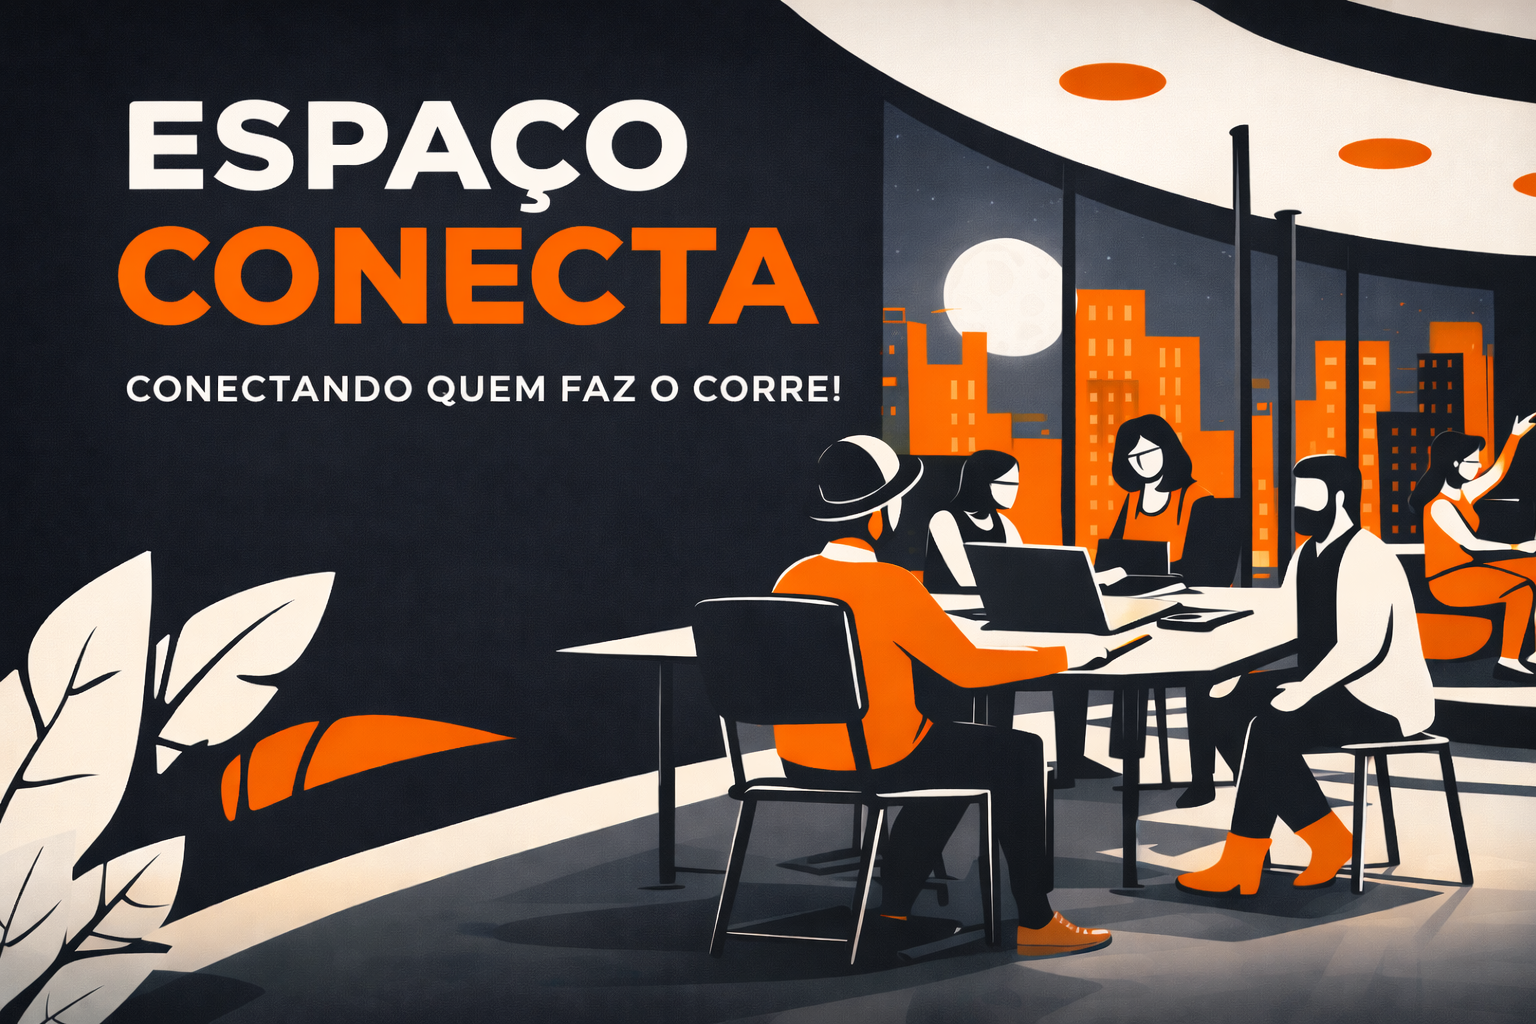
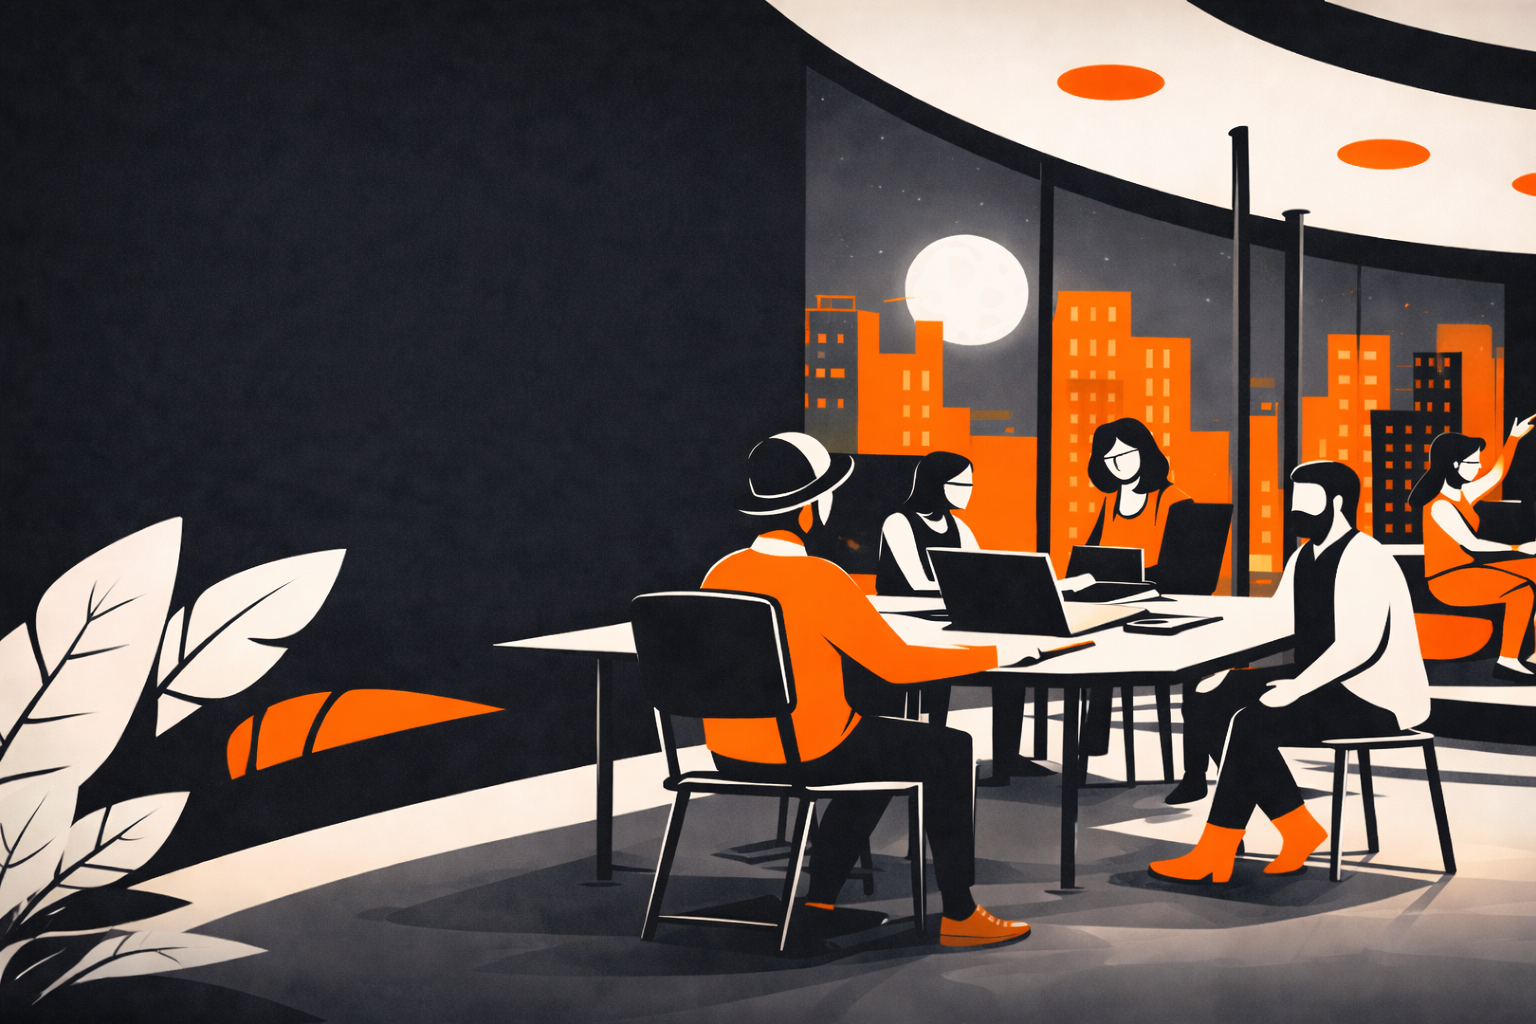
fix: mudei o tamaho da imagem principal, adicionei um titulo e um texpo de impacto e ajustei os tamanhos e flexbilidade da navbar e da section sobre nos

diff --git a/frontend/src/style/index.css b/frontend/src/style/index.css
@@ -9,13 +9,13 @@ header{
 .navbar {
     background-color: #000;
     color: white;
-    padding: 15px 40px;
+    padding: 15px 80px;
     display: flex;
     align-items: center;
+    justify-content: space-between;
     z-index: 1000;
     position: fixed;
     margin: 0 auto;
-    padding: 0 70px;
     width: 100%;
     height: 60px;
     box-shadow: 0 2px 4px rgba(0, 0, 0, 0.3);
@@ -23,23 +23,25 @@ header{
 
 
 /* esquerda */
-.nav-esquerda {
-    flex: 1; /* Ocupa o espaço disponível */
+.nav-links {
+    flex: 1;
+    display: flex;
+    justify-content: flex-start;
 }
 
 /* centro */
-.nav-logo a {
-    flex: 1;
-    display: flex;
-    justify-content: center;
-    margin-bottom: 5px;
+.nav-logo{
+   flex: 1;
+   display: flex;
+   justify-content: center;
+   align-items: center;
 }
 
 /* direita */
 .nav-direita {
-    flex: 1; /* Ocupa o espaço restante */
+    flex: 1;
     display: flex;
-    justify-content: end;
+    justify-content: flex-end;
 }
 
 .nav-direita img{
@@ -49,7 +51,7 @@ header{
 /* lista */
 .nav-list {
     display: flex;
-    gap: 100px;
+    gap: 70px;
     list-style: none;
     font-weight: 600;
 }
@@ -105,41 +107,72 @@ header{
     color: #E0712B;
     transition: 0.5s;
 }
+.hero{ 
+  height: 60vh; /* ocupa a tela toda */
+  background-image: url("../../assets/img/IMGhero.png");
+  background-size: cover;       /* cobre toda a área */
+  background-position: center;  /* centraliza */
+  background-repeat: no-repeat;
 
-.hero{
-   min-height: 100vh;
-   width: 100%;
-   display: flex;
-   align-items: center;
-   justify-content: center;
-   padding-top: 0px;
-   background-image: url(../../assets/img/IMGhero.png);
-   background-repeat: none;
-   background-size: cover;
+  display: flex;
+  align-items: center;   /* centraliza vertical */
+  justify-content: center; /* texto ao centro */
+  padding: 0 80px;
+  position: relative;
 }
+
+.hero-content {
+  max-width: 500px;
+  display: flex;
+  flex-direction: column;
+  justify-content: center;
+  align-items: center;
+  text-align: center;
+
+  position: relative;
+  z-index: 1;
+}
+
+#laranja {
+   display: flex;
+  font-size: 95px;
+  font-weight: 700;
+  color: #E0712B;
+}
+
+.hero-content h1{
+   display: flex;
+   gap: 30px;
+   font-size: 90px;
+   font-weight: 700;
+   color: white;
+}
+
+.hero-content p {
+   display: flex;
+  font-size: 30px;
+  font-weight: 500;
+  color: white;
+}
+
+
 
 .hero::before{
    content: "";
    position: absolute;
    inset: 0;
-   background-color: rgba(0, 0, 0, 0.1);
-}
-
-.hero > * {
-   position: relative;
-   z-index: 2;
-   max-width: 1200px;
-   text-align: center;
+   background-color: rgba(0, 0, 0, 0.7);
 }
 
 
 /* SOBRE NOS */
  .sobre-nos{
-    min-height: 50vh;
+    min-height: 1n  0vh;
     padding: 0px 40px;
     width: 100%;
     background-color: #000;
     display: flex;
+    padding-top: 0px;
  }
 
  .sobre-text{
@@ -170,16 +203,22 @@ header{
  /* Botão saiba mais */
 
  .saiba-mais{
-    width: 182px;
+   display: flex;
+   justify-content:baseline;
+   align-items:center;
+   width: 182px;
     height: 40px;
     border-radius: 10px;
     background-color: #E0712B;
     border: none;
     font-weight: 700;
+ }
 
+
+ .saiba-mais{
     display: flex;
     justify-content: center; /* Centraliza horizontalmente */
-    align-items: center; /* Centraliza verticalmente */
+    text-align: center; /* Centraliza verticalmente */
     transition: background-color 0.4s ease, transform 0.10s ease;
  }
 
@@ -202,7 +241,7 @@ header{
     text-align: center;
     height: 100%;
     width: 50%;
-    padding: 30px 40px;
+    padding: 0px 40px;
  }
  .adicional-text h2{
     color: #fff;
@@ -357,4 +396,3 @@ footer{
     text-align: center;
     padding: 20px;
 }
-

diff --git a/frontend/index.html b/frontend/index.html
@@ -19,22 +19,22 @@
     <!-- NAVBAR -->
      <header class="header">
          <nav class="navbar">
-             <div class="nav-esquerda">
+             <div class="nav-links">
                  <ul class="nav-list">
                      <li><a href="#home" class="linha-id">Home</a></li>
                      <li><a href="#reservas" class="linha">Reservas</a></li>
                      <li><a href="#sobre" class="linha">Sobre</a></li>
                  </ul>
-             </div>
+                </div>
+                <div class="nav-logo">
+                    <a href="#home" id="logo">
+                        <img src="./assets/img/logo-espaço-conecta.svg" alt="lOGO D">
+                    </a>
+                </div>
      
-             <div class="nav-logo">
-                 <a href="#home" id="logo">
-                     <img src="./assets/img/logo-espaço-conecta.svg" alt="lOGO D">
-                 </a>
-             </div>
      
              <div class="nav-direita">
-                 <a href="" id="reservas" class="logo-perfl">
+                 <a href="#" id="reservas" class="logo-perfl">
                      <img src="../frontend/assets/img/Img-perfil.svg"
                          alt="Imagem de uma silhueta de uma pessoal, para representar o perfil">
                  </a>
@@ -43,7 +43,12 @@
      </header>
 
     <!-- HERO (seção principal) -->
-    <section id="home" class="hero"></section>
+    <section id="home" class="hero">
+        <div class="hero-content">
+            <h1><span id="laranja">ESPAÇO </span> CONECTA</h1>
+            <p>Conectando Quem Faz o Corre!</p>
+        </div>
+    </section>
 
 
     <!-- Sobre nos -->
